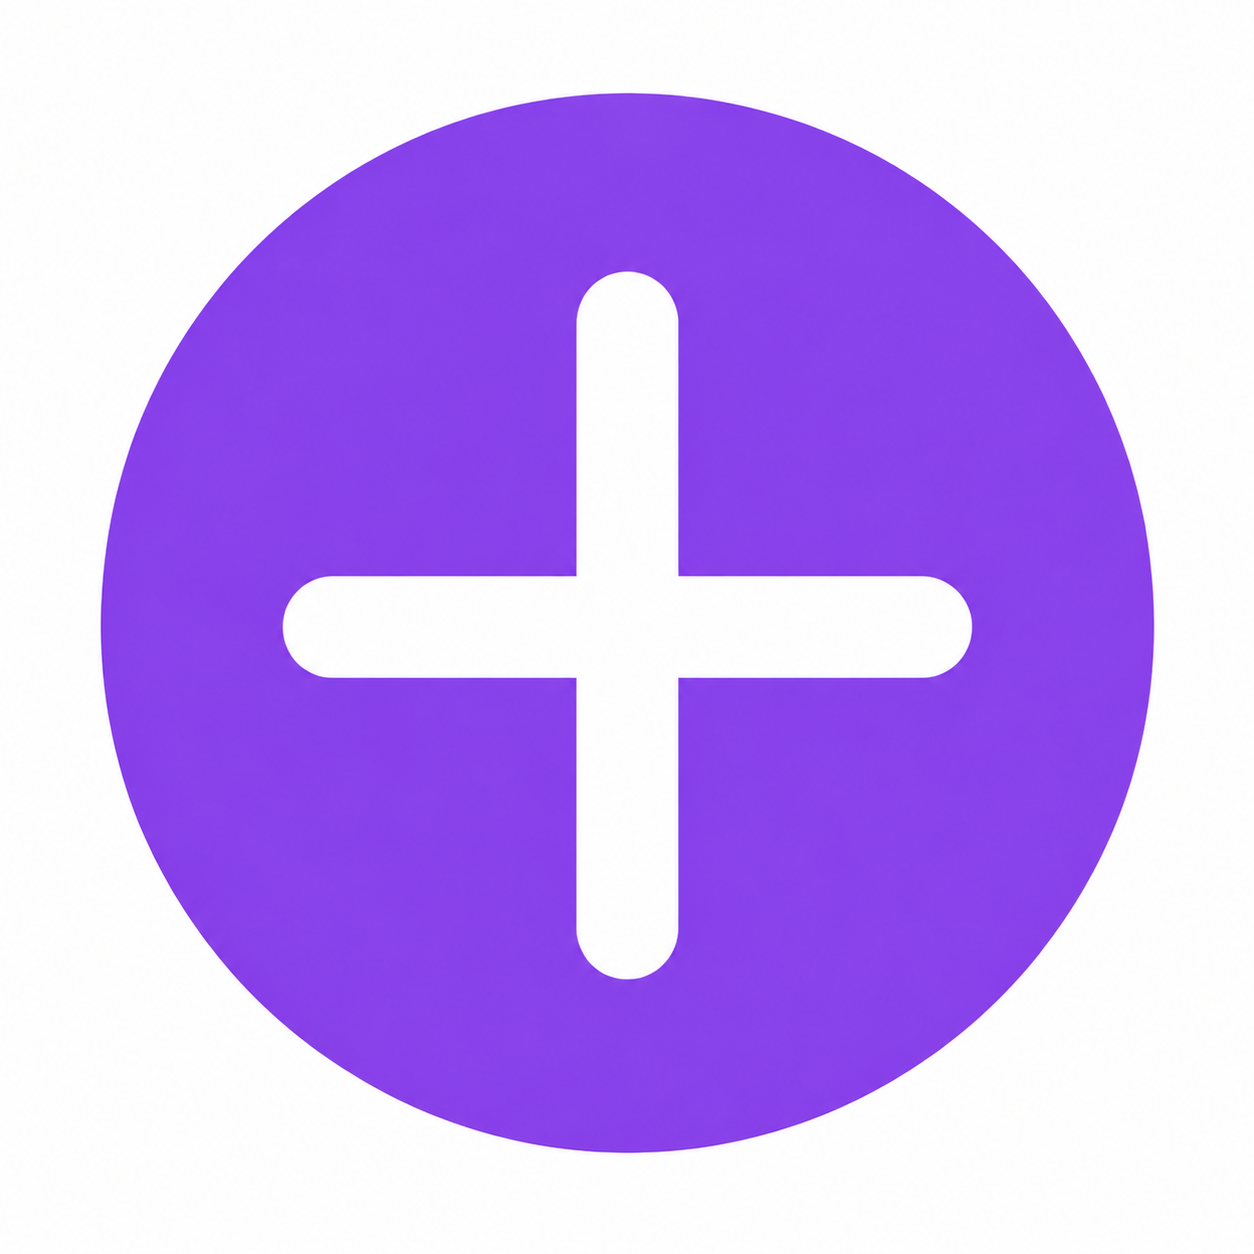
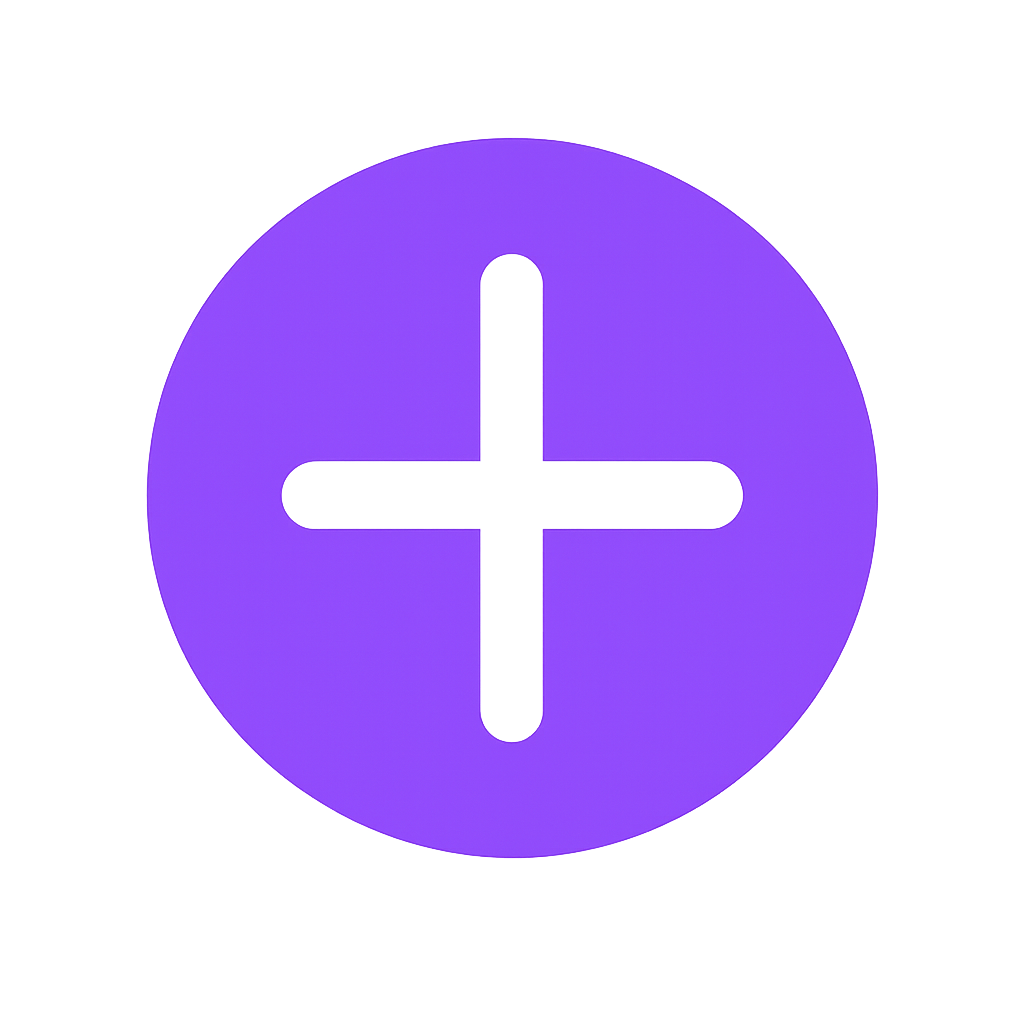
アイコン画像、スプラッシュ画像の変更 ダークモードの時の表示バグの修正 広告５回に１回に変更

Changed region(s): [[0.0625, 0.0625, 0.9375, 0.9375], [0.2188, 0.2188, 0.7812, 0.7812]]

diff --git a/BarcodeList/Resources/Styles/Styles.xaml b/BarcodeList/Resources/Styles/Styles.xaml
@@ -408,8 +408,8 @@
 
     <Style TargetType="Shell" ApplyToDerivedTypes="True">
         <Setter Property="Shell.BackgroundColor" Value="{AppThemeBinding Light={StaticResource White}, Dark={StaticResource OffBlack}}" />
-        <Setter Property="Shell.ForegroundColor" Value="{AppThemeBinding Light={StaticResource Black}, Dark={StaticResource SecondaryDarkText}}" />
-        <Setter Property="Shell.TitleColor" Value="{AppThemeBinding Light={StaticResource Black}, Dark={StaticResource SecondaryDarkText}}" />
+        <Setter Property="Shell.ForegroundColor" Value="{AppThemeBinding Light={StaticResource Black}, Dark={StaticResource White}}" />
+        <Setter Property="Shell.TitleColor" Value="{AppThemeBinding Light={StaticResource Black}, Dark={StaticResource White}}" />
         <Setter Property="Shell.DisabledColor" Value="{AppThemeBinding Light={StaticResource Gray200}, Dark={StaticResource Gray950}}" />
         <Setter Property="Shell.UnselectedColor" Value="{AppThemeBinding Light={StaticResource Gray200}, Dark={StaticResource Gray200}}" />
         <Setter Property="Shell.NavBarHasShadow" Value="False" />

diff --git a/BarcodeList/Views/Details/FolderDetailView.xaml b/BarcodeList/Views/Details/FolderDetailView.xaml
@@ -14,7 +14,8 @@
             <Label
                 Text="{Binding Folder.Name}"
                 FontSize="28"
-                FontAttributes="Bold" />
+                FontAttributes="Bold"
+                TextColor="{AppThemeBinding Light=#222222, Dark=#FFFFFF}" />
 
             <Label
                 Text="{x:Static strings:AppResources.FolderDetail_Description}"
@@ -34,7 +35,7 @@
                     <SwipeView>
 
                         <SwipeView.RightItems>
-                            <SwipeItems Mode="Execute">
+                            <SwipeItems Mode="Reveal">
                                 <SwipeItem
                         Text="{x:Static strings:AppResources.Common_Delete}"
                         BackgroundColor="#E53935"

diff --git a/BarcodeList/Views/Result/BarcodeResultView.xaml b/BarcodeList/Views/Result/BarcodeResultView.xaml
@@ -14,7 +14,8 @@
             <Label
                 Text="{Binding DisplayName, StringFormat={x:Static strings:AppResources.Result_TitleFormat}}"
                 FontSize="28"
-                FontAttributes="Bold" />
+                FontAttributes="Bold"
+                TextColor="{AppThemeBinding Light=#222222, Dark=#FFFFFF}" />
 
             <!-- プレビュー -->
             <Border Style="{StaticResource CardResultBorderStyle}">

diff --git a/BarcodeList/Views/Create/BarcodeCreateView.xaml b/BarcodeList/Views/Create/BarcodeCreateView.xaml
@@ -13,7 +13,8 @@
             <Label
                 Text="{Binding Title}"
                 FontSize="28"
-                FontAttributes="Bold" />
+                FontAttributes="Bold"
+                TextColor="{AppThemeBinding Light=#222222, Dark=#FFFFFF}" />
 
             <Border Style="{StaticResource CardBorderStyle}" IsVisible="{Binding ShowFormatPicker}">
                 <VerticalStackLayout Spacing="12">

diff --git a/BarcodeList/Views/Result/Gs1128ResultView.xaml b/BarcodeList/Views/Result/Gs1128ResultView.xaml
@@ -14,7 +14,8 @@
             <Label
                 Text="{x:Static strings:AppResources.Gs1Result_Title}"
                 FontSize="28"
-                FontAttributes="Bold" />
+                FontAttributes="Bold"
+                TextColor="{AppThemeBinding Light=#222222, Dark=#FFFFFF}" />
 
             <!-- プレビュー -->
             <Border Style="{StaticResource CardResultBorderStyle}">

diff --git a/BarcodeList/Views/Create/Gs1128CreateView.xaml b/BarcodeList/Views/Create/Gs1128CreateView.xaml
@@ -14,7 +14,8 @@
             <Label
                 Text="{x:Static strings:AppResources.Gs1Create_Title}"
                 FontSize="28"
-                FontAttributes="Bold" />
+                FontAttributes="Bold"
+                TextColor="{AppThemeBinding Light=#222222, Dark=#FFFFFF}" />
 
             <Label
                 Text="{x:Static strings:AppResources.Gs1Create_Description}"

diff --git a/BarcodeList/Views/BarcodeCreateMenuView.xaml b/BarcodeList/Views/BarcodeCreateMenuView.xaml
@@ -11,6 +11,7 @@
             <Label
                 Text="{x:Static strings:AppResources.CreateMenu_Description}"
                 FontSize="Medium"
+                FontAttributes="Bold"
                 TextColor="Gray" />
 
             <VerticalStackLayout Spacing="10">

diff --git a/BarcodeList/ViewModels/Create/BarcodeCreateViewModel.cs b/BarcodeList/ViewModels/Create/BarcodeCreateViewModel.cs
@@ -2,11 +2,14 @@ using BarcodeList.Models;
 using BarcodeList.Resources.Strings;
 using BarcodeList.Services;
 using BarcodeList.Services.CreateServices;
+using BarcodeList.Tool;
 using BarcodeList.Views.Result;
 using CommunityToolkit.Mvvm.ComponentModel;
 using CommunityToolkit.Mvvm.Input;
 using Microsoft.Maui;
+using System;
 using System.Collections.Generic;
+using ZXing.Common;
 using ZXing.Net.Maui;
 
 namespace BarcodeList.ViewModels.Create;
@@ -115,6 +118,25 @@ public partial class BarcodeCreateViewModel : ObservableObject, IQueryAttributab
             ? SelectedFormat.AppendCheckDigit(normalized)
             : normalized;
 
+        // 実際にバーコードとしてエンコードできるかをここで確認してから履歴に保存する。
+        // 先に保存してしまうと、結果画面でのエンコード時にクラッシュした場合、
+        // 同じ壊れたデータが履歴に残り、履歴から開こうとするたびに再クラッシュしてしまうため。
+        try
+        {
+            var writer = new global::ZXing.BarcodeWriterGeneric
+            {
+                Format = ToZXingBarcodeFormat(SelectedFormat.Format),
+                Options = new EncodingOptions { Margin = 10 }
+            };
+            writer.Encode(finalValue);
+        }
+        catch (Exception ex)
+        {
+            ErrorMessage = AppResources.Create_EncodeError;
+            AppLogger.LogError("BarcodeCreateViewModel.Create: encode check failed", ex);
+            return;
+        }
+
         var savedBarcode = new SavedBarcode
         {
             BarcodeValue = finalValue,
@@ -127,8 +149,8 @@ public partial class BarcodeCreateViewModel : ObservableObject, IQueryAttributab
         InputValue = "";
         ErrorMessage = "";
 
-        // バーコードを3回作成するごとに1回、インタースティシャル広告を表示する
-        var shouldShowAd = _adFrequencyService.ShouldShowAd("barcode_created", every: 3);
+        // バーコードを5回作成するごとに1回、インタースティシャル広告を表示する
+        var shouldShowAd = _adFrequencyService.ShouldShowAd("barcode_created", every: 5);
 
         await Shell.Current.GoToAsync(
             nameof(BarcodeResultView),
@@ -144,4 +166,25 @@ public partial class BarcodeCreateViewModel : ObservableObject, IQueryAttributab
             _interstitialAdService.LoadAndShow();
         }
     }
+
+    /// <summary>
+    /// 結果画面のzxing:BarcodeGeneratorViewが内部で使うのと同じZXing.BarcodeFormatへ変換する。
+    /// BarcodeFormatCatalog.Allに登録されている形式のみ対応。
+    /// </summary>
+    private static global::ZXing.BarcodeFormat ToZXingBarcodeFormat(BarcodeFormat format) => format switch
+    {
+        BarcodeFormat.QrCode => global::ZXing.BarcodeFormat.QR_CODE,
+        BarcodeFormat.Code128 => global::ZXing.BarcodeFormat.CODE_128,
+        BarcodeFormat.Code39 => global::ZXing.BarcodeFormat.CODE_39,
+        BarcodeFormat.Ean13 => global::ZXing.BarcodeFormat.EAN_13,
+        BarcodeFormat.Ean8 => global::ZXing.BarcodeFormat.EAN_8,
+        BarcodeFormat.UpcA => global::ZXing.BarcodeFormat.UPC_A,
+        BarcodeFormat.Itf => global::ZXing.BarcodeFormat.ITF,
+        BarcodeFormat.Codabar => global::ZXing.BarcodeFormat.CODABAR,
+        BarcodeFormat.Code93 => global::ZXing.BarcodeFormat.CODE_93,
+        BarcodeFormat.DataMatrix => global::ZXing.BarcodeFormat.DATA_MATRIX,
+        BarcodeFormat.Pdf417 => global::ZXing.BarcodeFormat.PDF_417,
+        BarcodeFormat.Aztec => global::ZXing.BarcodeFormat.AZTEC,
+        _ => global::ZXing.BarcodeFormat.CODE_128,
+    };
 }

diff --git a/BarcodeList.Core/Resources/Strings/AppResources.Designer.cs b/BarcodeList.Core/Resources/Strings/AppResources.Designer.cs
@@ -145,6 +145,7 @@ namespace BarcodeList.Resources.Strings {
         internal static string Create_ValueLabel => ResourceManager.GetString("Create_ValueLabel", resourceCulture);
         internal static string Create_SelectFormatError => ResourceManager.GetString("Create_SelectFormatError", resourceCulture);
         internal static string Create_EnterValueError => ResourceManager.GetString("Create_EnterValueError", resourceCulture);
+        internal static string Create_EncodeError => ResourceManager.GetString("Create_EncodeError", resourceCulture);
         internal static string Create_DefaultTitle => ResourceManager.GetString("Create_DefaultTitle", resourceCulture);
         internal static string Create_TitleFormat => ResourceManager.GetString("Create_TitleFormat", resourceCulture);
 
@@ -229,6 +230,7 @@ namespace BarcodeList.Resources.Strings {
         internal static string Format_Code93_Name => ResourceManager.GetString("Format_Code93_Name", resourceCulture);
         internal static string Format_DataMatrix_Name => ResourceManager.GetString("Format_DataMatrix_Name", resourceCulture);
         internal static string Format_DataMatrix_Placeholder => ResourceManager.GetString("Format_DataMatrix_Placeholder", resourceCulture);
+        internal static string Format_DataMatrix_Hint => ResourceManager.GetString("Format_DataMatrix_Hint", resourceCulture);
         internal static string Format_Pdf417_Name => ResourceManager.GetString("Format_Pdf417_Name", resourceCulture);
         internal static string Format_Pdf417_Hint => ResourceManager.GetString("Format_Pdf417_Hint", resourceCulture);
         internal static string Format_Aztec_Name => ResourceManager.GetString("Format_Aztec_Name", resourceCulture);
@@ -237,6 +239,7 @@ namespace BarcodeList.Resources.Strings {
         internal static string FormatValidate_NonAscii => ResourceManager.GetString("FormatValidate_NonAscii", resourceCulture);
         internal static string FormatValidate_Code39 => ResourceManager.GetString("FormatValidate_Code39", resourceCulture);
         internal static string FormatValidate_Codabar => ResourceManager.GetString("FormatValidate_Codabar", resourceCulture);
+        internal static string FormatValidate_CodabarStartStop => ResourceManager.GetString("FormatValidate_CodabarStartStop", resourceCulture);
         internal static string FormatValidate_ItfDigitsOnly => ResourceManager.GetString("FormatValidate_ItfDigitsOnly", resourceCulture);
         internal static string FormatValidate_ItfEvenLength => ResourceManager.GetString("FormatValidate_ItfEvenLength", resourceCulture);
         internal static string FormatValidate_NumericOnly => ResourceManager.GetString("FormatValidate_NumericOnly", resourceCulture);

diff --git a/BarcodeList.Core/Services/CreateServices/BarcodeFormatCatalog.cs b/BarcodeList.Core/Services/CreateServices/BarcodeFormatCatalog.cs
@@ -113,11 +113,11 @@ namespace BarcodeList.Services.CreateServices
                 Format: BarcodeFormat.DataMatrix,
                 DisplayName: AppResources.Format_DataMatrix_Name,
                 Placeholder: AppResources.Format_DataMatrix_Placeholder,
-                FormatHint: AppResources.Format_FreeText_Hint,
+                FormatHint: AppResources.Format_DataMatrix_Hint,
                 NumericKeyboard: false,
                 MaxLength: 0,
                 Normalize: v => v,
-                Validate: v => ""),
+                Validate: ValidateAsciiOnly),
 
             new(
                 Format: BarcodeFormat.Pdf417,
@@ -127,7 +127,7 @@ namespace BarcodeList.Services.CreateServices
                 NumericKeyboard: false,
                 MaxLength: 0,
                 Normalize: v => v,
-                Validate: v => ""),
+                Validate: ValidateAsciiOnly),
 
             new(
                 Format: BarcodeFormat.Aztec,
@@ -167,9 +167,20 @@ namespace BarcodeList.Services.CreateServices
 
         private static string ValidateCodabar(string value)
         {
-            return value.All(c => CodabarAllowedChars.Contains(c))
-                ? ""
-                : AppResources.FormatValidate_Codabar;
+            if (!value.All(c => CodabarAllowedChars.Contains(c)))
+                return AppResources.FormatValidate_Codabar;
+
+            // A~D(スタート/ストップ文字)はデータ部には使えず、使うなら先頭と末尾に1文字ずつの
+            // ペアでなければならない。片方だけ(例:先頭にAだけ付けて末尾に付け忘れ)だと
+            // エンコード時に例外が発生してクラッシュするため、ここで弾く。
+            var startStopIndexes = Enumerable.Range(0, value.Length)
+                .Where(i => "ABCD".Contains(value[i]))
+                .ToList();
+
+            var isValidStartStop = startStopIndexes.Count == 0
+                || (startStopIndexes.Count == 2 && startStopIndexes[0] == 0 && startStopIndexes[1] == value.Length - 1);
+
+            return isValidStartStop ? "" : AppResources.FormatValidate_CodabarStartStop;
         }
 
         private static string ValidateItf(string value)

diff --git a/BarcodeList/ViewModels/Create/Gs1128CreateViewModel.cs b/BarcodeList/ViewModels/Create/Gs1128CreateViewModel.cs
@@ -6,7 +6,10 @@ using BarcodeList.Views.Result;
 using CommunityToolkit.Mvvm.ComponentModel;
 using CommunityToolkit.Mvvm.Input;
 using Microsoft.Maui;
+using System;
 using System.Collections.ObjectModel;
+using ZXing;
+using ZXing.Common;
 
 namespace BarcodeList.ViewModels.Create;
 
@@ -134,10 +137,29 @@ public partial class Gs1128CreateViewModel : ObservableObject
 
         var gs1Value = Gs1128CreateService.BuildGs1Value(Elements);
 
+        // 実際にバーコードとしてエンコードできるかをここで確認してから履歴に保存する。
+        // 先に保存してしまうと、結果画面でのエンコード時にクラッシュした場合、
+        // 同じ壊れたデータが履歴に残り、履歴から開こうとするたびに再クラッシュしてしまうため。
+        try
+        {
+            var writer = new BarcodeWriterGeneric
+            {
+                Format = BarcodeFormat.CODE_128,
+                Options = new EncodingOptions { GS1Format = true, Margin = 10 }
+            };
+            writer.Encode(gs1Value);
+        }
+        catch (Exception ex)
+        {
+            ErrorMessage = AppResources.Create_EncodeError;
+            AppLogger.LogError("Gs1128CreateViewModel.Create: encode check failed", ex);
+            return;
+        }
+
         await _gs1128Service.SaveBarcodeToHistory(gs1Value, 0);
 
-        // バーコードを3回作成するごとに1回、インタースティシャル広告を表示する
-        var shouldShowAd = _adFrequencyService.ShouldShowAd("barcode_created", every: 3);
+        // バーコードを5回作成するごとに1回、インタースティシャル広告を表示する
+        var shouldShowAd = _adFrequencyService.ShouldShowAd("barcode_created", every: 5);
 
         await Shell.Current.GoToAsync(
             nameof(Gs1128ResultView),

diff --git a/BarcodeList/ViewModels/Result/BarcodeResultViewModel.cs b/BarcodeList/ViewModels/Result/BarcodeResultViewModel.cs
@@ -127,8 +127,8 @@ public partial class BarcodeResultViewModel : ObservableObject, IQueryAttributab
         {
             await Shell.Current.DisplayAlertAsync(AppResources.Common_SaveSuccessTitle, string.Format(AppResources.Common_SaveSuccessMessage, SelectedFolder.Name), AppResources.Common_OK);
 
-            // バーコードを3回保存するごとに1回、インタースティシャル広告を表示する
-            if (_adFrequencyService.ShouldShowAd("barcode_saved", every: 3))
+            // バーコードを5回保存するごとに1回、インタースティシャル広告を表示する
+            if (_adFrequencyService.ShouldShowAd("barcode_saved", every: 5))
             {
                 _interstitialAdService.LoadAndShow();
             }
